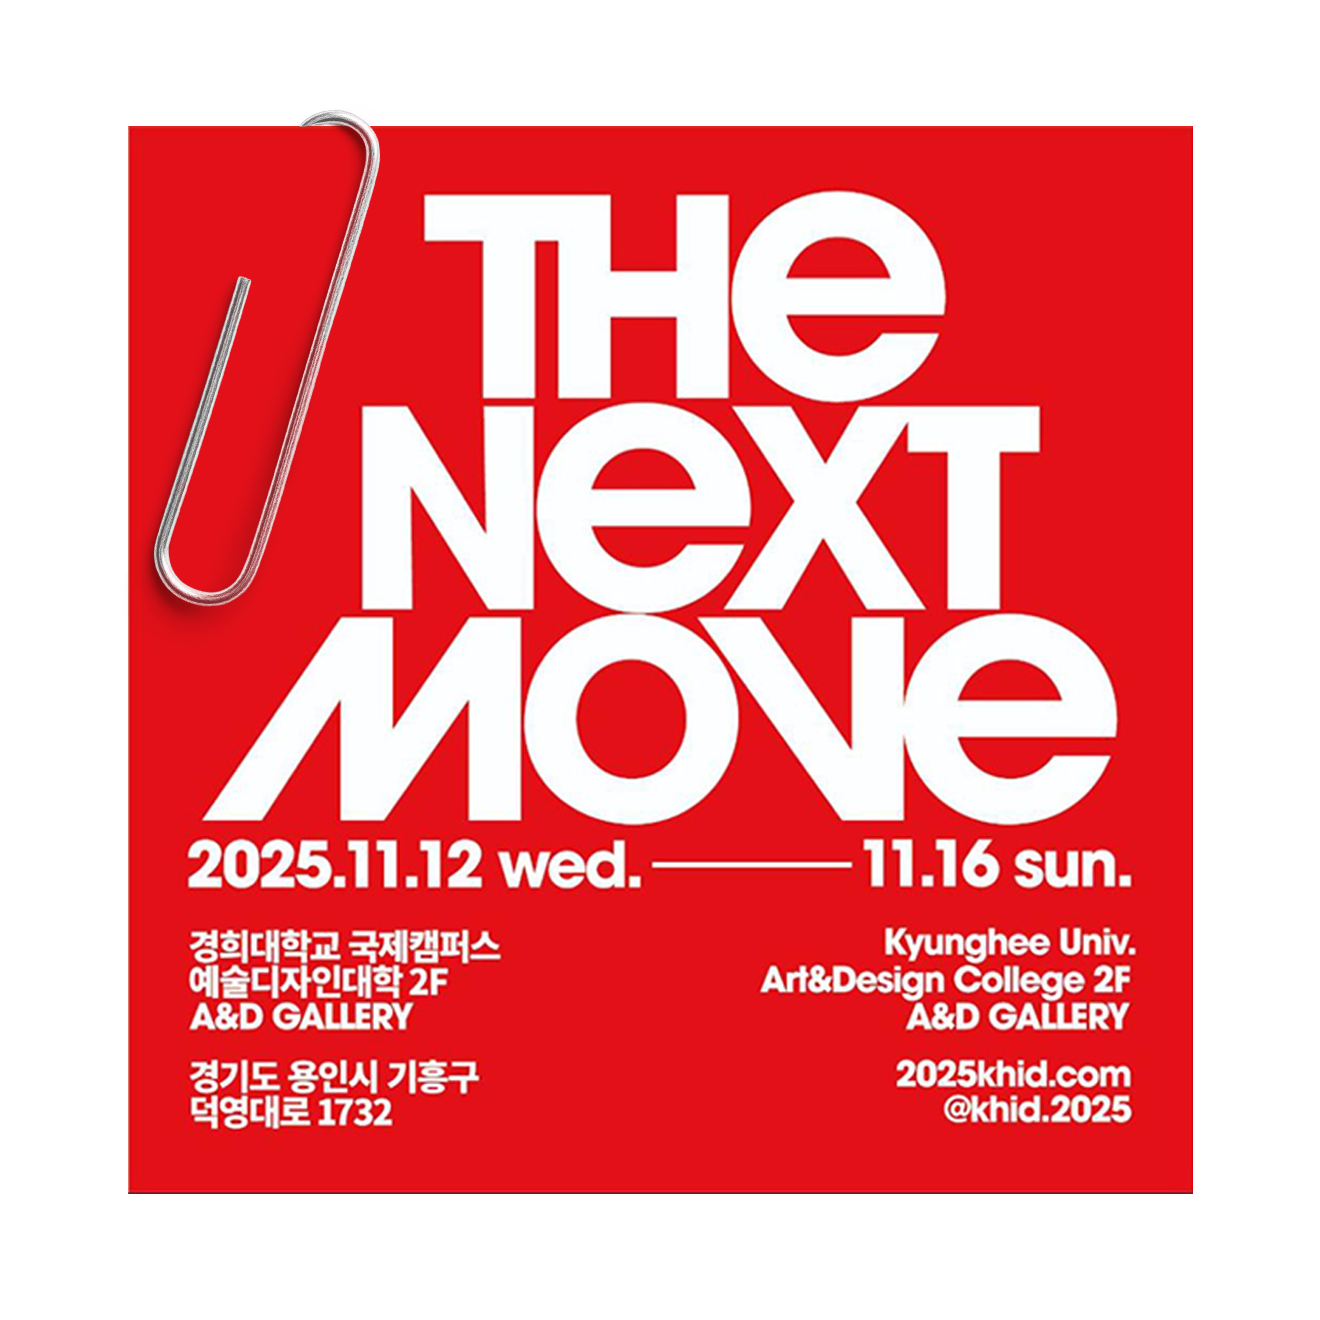
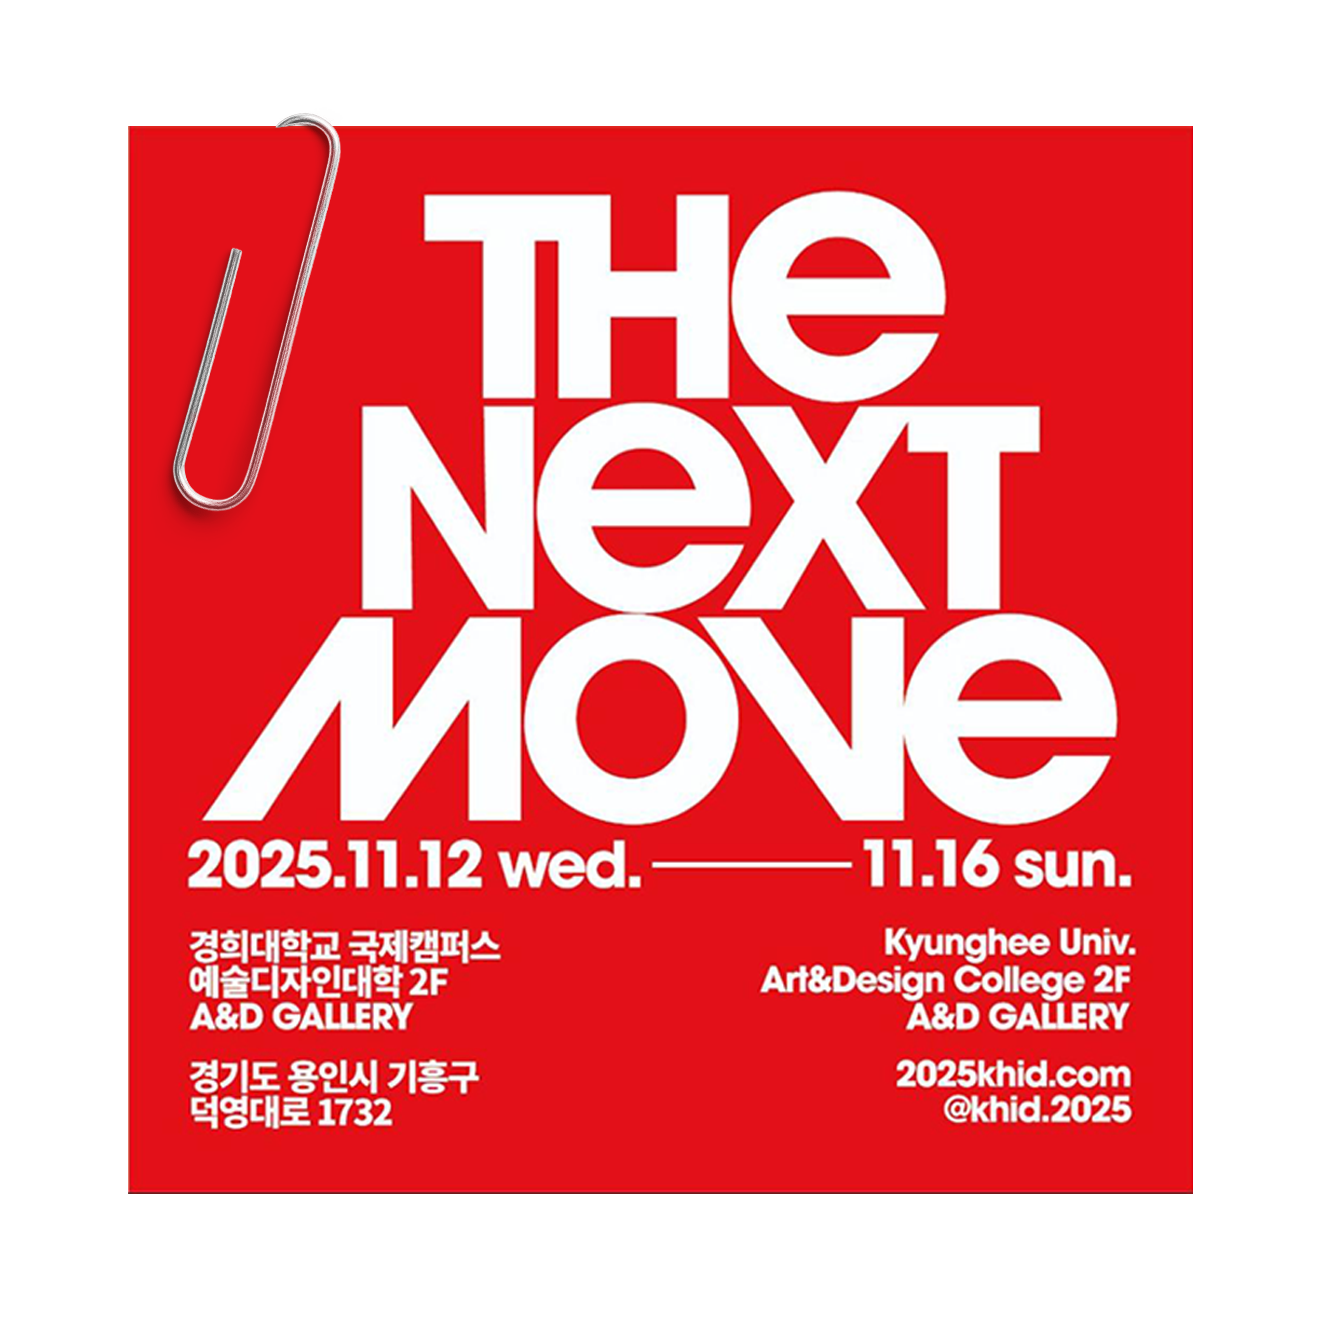
Flip viewer: paper-only cards while side-on, attached objects fade in when a card faces front; update 2025 card

Changed region(s): [[0.0932, 0.0621, 0.3106, 0.497]]

diff --git a/src/components/InvitationViewer.tsx b/src/components/InvitationViewer.tsx
@@ -266,29 +266,49 @@ export default function InvitationViewer({ exhibitions, originRect, onClosed }: 
         style={{ opacity: phase === "enter" || phase === "exit" ? 0 : 1 }}
       />
 
-      {cards.map((ex, i) => (
-        <div
-          key={ex.year}
-          data-card={i}
-          className="absolute top-1/2 left-1/2 cursor-pointer will-change-transform"
-          style={{ width: size, height: size, transition, ...cardStyle(i) }}
-        >
-          {ex.invitationSrc ? (
-            <Image
-              src={ex.invitationSrc}
-              alt={`${ex.year} ${ex.titleKo} 초대장`}
-              fill
-              sizes="726px"
-              draggable={false}
-              className="pointer-events-none object-contain"
-            />
-          ) : (
-            <div className="flex size-full items-center justify-center bg-foreground/5 text-xs text-muted">
-              {ex.year}
-            </div>
-          )}
-        </div>
-      ))}
+      {cards.map((ex, i) => {
+        // 테이프·클립 같은 사물은 옆으로 선 카드에선 어색해서 종이만 보여주고,
+        // 더미 자리이거나 정면으로 펴졌을 때만 사물이 있는 초대장을 위에 겹쳐 보여줌 (펴지는 모션 끝무렵에 페이드인)
+        const facingFront = phase === "enter" || phase === "exit" || (phase === "single" && i === selected);
+        const showFull = !ex.invitationPlainSrc || facingFront;
+        return (
+          <div
+            key={ex.year}
+            data-card={i}
+            className="absolute top-1/2 left-1/2 cursor-pointer will-change-transform"
+            style={{ width: size, height: size, transition, ...cardStyle(i) }}
+          >
+            {ex.invitationSrc ? (
+              <>
+                {ex.invitationPlainSrc && (
+                  <Image
+                    src={ex.invitationPlainSrc}
+                    alt=""
+                    fill
+                    sizes="726px"
+                    draggable={false}
+                    className="pointer-events-none object-contain"
+                  />
+                )}
+                <Image
+                  src={ex.invitationSrc}
+                  alt={`${ex.year} ${ex.titleKo} 초대장`}
+                  fill
+                  sizes="726px"
+                  draggable={false}
+                  className={`pointer-events-none object-contain transition-opacity ${
+                    showFull ? "opacity-100" : "opacity-0"
+                  } ${showFull && phase === "single" ? "duration-200 delay-300" : "duration-300"}`}
+                />
+              </>
+            ) : (
+              <div className="flex size-full items-center justify-center bg-foreground/5 text-xs text-muted">
+                {ex.year}
+              </div>
+            )}
+          </div>
+        );
+      })}
 
       {/* 카드가 정면으로 펴질 때 같이 나타남(펴지는 모션 끝무렵에 페이드인) — Phase 3 포스터의 VISIT WEB SITE와 같은 형식 */}
       {active && (

diff --git a/src/lib/exhibitions.ts b/src/lib/exhibitions.ts
@@ -11,6 +11,8 @@ export type Exhibition = {
   keyColor?: string;
   posterSrc?: string;
   invitationSrc?: string;
+  /** 테이프·클립 등 사물을 뺀 종이만 있는 초대장. 넘겨보기에서 카드가 옆으로 서 있을 때 쓰임 */
+  invitationPlainSrc?: string;
   movingPosterSrc?: string;
   /** 온라인 전시 주소(info.json href). 없으면 VISIT 링크를 숨김 */
   href?: string;
@@ -60,6 +62,7 @@ export function getExhibitions(): Exhibition[] {
       posterSrc: firstExisting(dir, year, "poster", ["jpg", "jpeg", "png"]),
       // 초대장은 투명 배경 PNG(660 캔버스 2배)가 기준이라 png를 먼저 찾음
       invitationSrc: firstExisting(dir, year, "invitation", ["png", "jpg", "jpeg"]),
+      invitationPlainSrc: firstExisting(dir, year, "invitation-plain", ["png", "jpg", "jpeg"]),
       movingPosterSrc: firstExisting(dir, year, "moving-poster", ["mp4"]),
       href: /^https?:\/\//.test(info.href ?? "") ? info.href : undefined,
     };

diff --git a/exhibition-template/README.md b/exhibition-template/README.md
@@ -11,6 +11,12 @@
 | `moving-poster.mp4` | 무빙포스터 (연혁 섹션, 467:660 비율 칸에 꽉 차게 잘려 보임) | **MP4(H.264)만 인식됩니다** |
 | `info.json` | 전시 타이틀, 날짜, 장소, 키컬러 | JSON |
 
+초대장에 테이프·클립·집게 같은 사물을 붙였다면 아래 파일도 같이 넣어주세요 (선택).
+
+| 파일명 | 내용 | 형식 |
+|---|---|---|
+| `invitation-plain.png` | 사물 레이어만 끄고 내보낸 **종이만 있는** 초대장. 초대장 넘겨보기에서 카드가 옆으로 서 있을 때 쓰이고, 정면으로 펴지면 사물이 다시 나타납니다 | `invitation.png`와 **같은 캔버스·같은 위치**, 투명 배경 PNG 1320×1320 |
+
 파일 이름은 위 표와 **정확히 같아야** 인식됩니다 (대소문자 포함). 하나가 빠져도 에러는 안 나고 해당 자리만 비거나 대체 이미지로 나옵니다 — 무빙포스터가 없으면 포스터 이미지가 대신 보입니다.
 
 ## 초대장 규격
